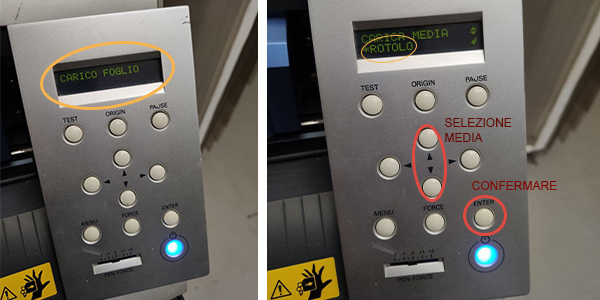
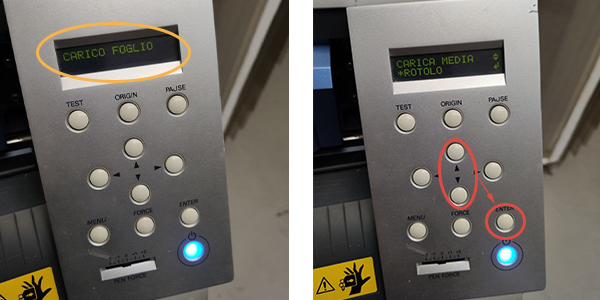
add cut parameters images

diff --git a/vinyl-cutter/index.md b/vinyl-cutter/index.md
@@ -74,37 +74,38 @@ Spostare i due rulli di fissaggio (__pinch roller__) negli spazi bianchi segnati
 Alzare la leva di caricamento (__loading lever__).   
 ![foto prima e dopo](img/vinylcut-leva-alzata.jpg)   
 
-Sul display del pannello di controllo (__operation panel__) compare la scritta `CARICO FOGLIO`. Scegliere con i tasti `↑` o `↓` il tipo di supporto utilizzato, tra `ROTOLO`, `FOGLIO` o `BORDO`. Premere `ENTER` per confermare.  
+Sul display del pannello di controllo (__operation panel__) compare la scritta `CARICO FOGLIO` seguita subito da `CARICA MEDIA`. Scegliere con i tasti `↑` o `↓` il tipo di supporto utilizzato, tra `ROTOLO`, `FOGLIO` o `BORDO`. Premere `ENTER` per confermare.  
 ![foto-evidenziare tasti necessari+foto completamento azione](img/vinylcut-selezione-media.jpg)
 
 ### Preparare il file
 
 <!-- Niente istruzioni riguardanti Inkscape? -->
-<!-- Aggiungere sezione per prepare il file su CutStudio -->
 
 Avviare Cutstudio, per aprire il file di taglio seguire il percorso _importa_>selezionare il file.   
 ![screen 07-evidenziare tasto importa](img/vinylcut-cutstudio-importa.png)
 
 <!-- da inserire come trasformare i png in contorni? -->
 
-La Vinyl Cutter durante il [caricamento del materiale](#caricare-il-materiale) misura in automatico la dimensione della superficie utile di taglio. Per riportare queste misure sul foglio di lavoro seguire il percorso _tagliare_>_modifica_>_proprietà_>_get from machine_. Confermare quindi l'operazione cliccando su _ok_ nelle prime due finestre, ma facendo attenzione a selezionare _annulla_ nell'ultima (come mostrato in foto).   
+La Vinyl Cutter durante il [caricamento del materiale](#caricare-il-materiale) misura in automatico la dimensione della superficie utile di taglio. Per riportare queste misure sul foglio di lavoro seguire il percorso _tagliare_>_modifica_>_proprietà_>_get from machine_. Confermare quindi l'operazione cliccando su _ok_ nelle prime due finestre, ma facendo attenzione a selezionare _annulla_ nell'ultima (come mostrato in giallo in foto).   
 ![screen 08-modificare inserendo flusso comandi completo](img/vinylcut-cutstudio-get-from-machine.png)   
   
-Utilizzare il comando _spostare_ (in alto a destra) per posizionare i contorni in corrispondenza dell'origine di taglio.   
+Utilizzare il comando _spostare_ per posizionare i contorni in corrispondenza dell'origine di taglio.   
 Per ridurre o aumentare le dimensioni del contorno si può agire sulle frecce agli angoli del file (tieni premuto _SHIFT_ per mantenere le proporzioni) o modificare i valori nella colonna destra (spuntare la casella _Conserva Aspetto_ per mantenere le proporzioni).   
 ![screen 09-evidenziare comando spostare in alto e modifica dimensioni di lato](img/vinylcut-cutstudio-spostare-ridimensionare.png)
 
 ### Parametri di taglio
-<!-- Da rivvedere da qua in poi -->
-In base al materiale è possibile modificare la pressione della lama pannello di controllo (__operation panel__) premendo sul tasto `FORCE`. Premere `←` o `→` sulla pulsantiera per sbloccare la selezione, quindi modificare i grammi forza con `↑` e `↓` e premere infine `ENTER` per confermare la selezione.
-![foto-evidenziare tasti necessari](vinylcut/../img/500x300.png)   
+<!-- Da rivedere da qua in poi -->
+In base al materiale si deve modificare la pressione della lama dal pannello di controllo (__operation panel__) premendo sul tasto `FORCE`. Premere `←` o `→` sulla pulsantiera per sbloccare la selezione, quindi modificare i grammi forza con `↑` e `↓` e premere infine `ENTER` per confermare la selezione.   
+![foto-evidenziare tasti necessari](img/vinylcut-selezione-forza.jpg)   
 
-Il __display__ dovrebbe ora indicare la pressione della lama (espressa in gf), ma anche la velocità di taglio e la distanza di Offset. Quest'ultima dipende dalla lama montata ed è importante assicurarsi sempre che l'Offset indicato coincida con quello della lama in utilizzo.     
-![foto display + in futuro foto dello sticker che indica le caratteristiche della lama](vinylcut/../img/500x300.png)   
+Il __display__ dovrebbe ora indicare la pressione della lama (espressa in gf), ma anche la velocità di taglio e la distanza di Offset. Quest'ultima dipende dalla lama montata ed è importante assicurarsi sempre che l'Offset indicato coincida con quello della lama in utilizzo.   
+![foto display + in futuro foto dello sticker che indica le caratteristiche della lama](img/vinylcut-info-display.jpg) 
 
-Prima di procedere al taglio è buona pratica fare dei test.Tramite i tasti `←` e `→` si posiziona il carrello di taglio (__cutting carriage__) in uno spazio inutilizzato, quindi premere il tasto `TEST` per almeno un secondo.   
-Il taglio è ben fatto se si riesce a spellicolare il cerchio senza rimuovere il quadrato al suo interno e se la superficie dello strato protettivo è segnata.  
-![foto tastierino-evidenziare tasti necessari+foto step del test](vinylcut/../img/500x300.png)
+<!-- qui in futuro si può inserire foto dell'adesivo che riporta le caratteristiche della lama, o simile -->
+
+Prima di procedere al taglio è buona pratica fare dei test.Tramite i tasti `↑`, `↓`, `←` e `→` posizionare il carrello di taglio (__cutting carriage__) in uno spazio inutilizzato, quindi premere il tasto `TEST` per almeno un secondo.   
+Testare quindi il taglio spellicolando il cerchio, ma senza rimuovere il quadrato al suo interno.   
+![foto tastierino-evidenziare tasti necessari+foto test](img/vinylcut-selezione-test.jpg)
 
 
 ### Tagliare
@@ -112,7 +113,7 @@ Prima di avviare il taglio su un rotolo è bene impostare il punto di origine. N
 ![foto tasto origine](vinylcut/../img/500x300.png)
 
 Si può dunque avviare il taglio da Cutstudio, seguendo il percorso _tagliare_>_ok_.     
-![screen 10-evidenziare tasti](vinylcut/../img/500x300.png)
+![screen 10-evidenziare tasti](img/vinylcut-cutstudio-avvio-taglio.png)
 
 Per variare la pressione della lama durante il taglio, è possibile regolarla dallo slider `PEN FORCE`.   
 ![foto tastierino evidenziando pen force+risultato finale taglio](vinylcut/../img/500x300.png) 
